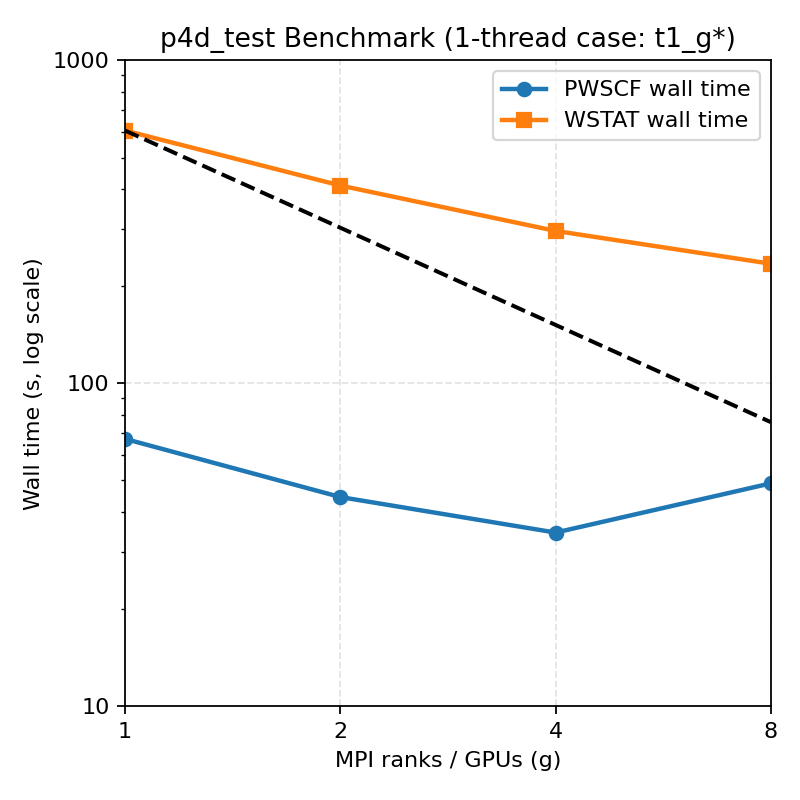
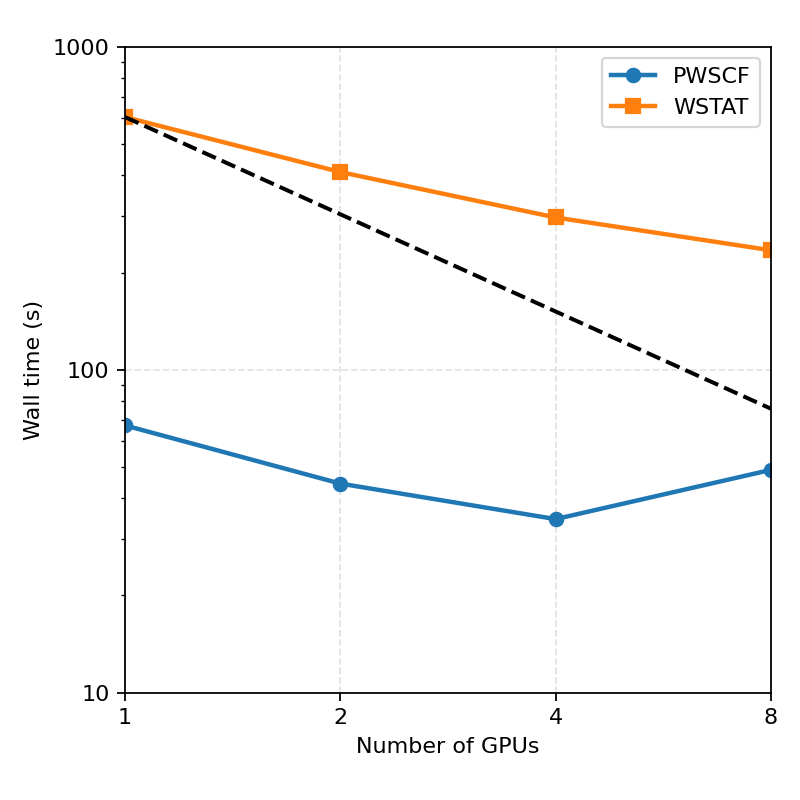
Update benchmark plot for t1: simplified labels and adjusted axis titles for clarity; updated benchmark image file.

diff --git a/p4d_test/plot_benchmark_t1.py b/p4d_test/plot_benchmark_t1.py
@@ -89,8 +89,8 @@ def make_plot(g_vals: list[int], pw_vals: list[float], wstat_vals: list[float], 
     ideal_vals = [ideal_ref * (g_ref / g) for g in g_vals]
 
     fig, ax = plt.subplots(figsize=(5, 5))
-    ax.plot(x_vals, pw_vals, marker="o", linewidth=2, label="PWSCF wall time")
-    ax.plot(x_vals, wstat_vals, marker="s", linewidth=2, label="WSTAT wall time")
+    ax.plot(x_vals, pw_vals, marker="o", linewidth=2, label="PWSCF")
+    ax.plot(x_vals, wstat_vals, marker="s", linewidth=2, label="WSTAT")
     ax.plot(
         x_vals,
         ideal_vals,
@@ -100,9 +100,8 @@ def make_plot(g_vals: list[int], pw_vals: list[float], wstat_vals: list[float], 
         label="_nolegend_",
     )
 
-    ax.set_title("p4d_test Benchmark (1-thread case: t1_g*)")
-    ax.set_xlabel("MPI ranks / GPUs (g)")
-    ax.set_ylabel("Wall time (s, log scale)")
+    ax.set_xlabel("Number of GPUs")
+    ax.set_ylabel("Wall time (s)")
     ax.set_xscale("log", base=2)
     ax.set_xlim(1, 8)
     ax.set_xticks(g_vals, labels=[str(v) for v in g_vals])
